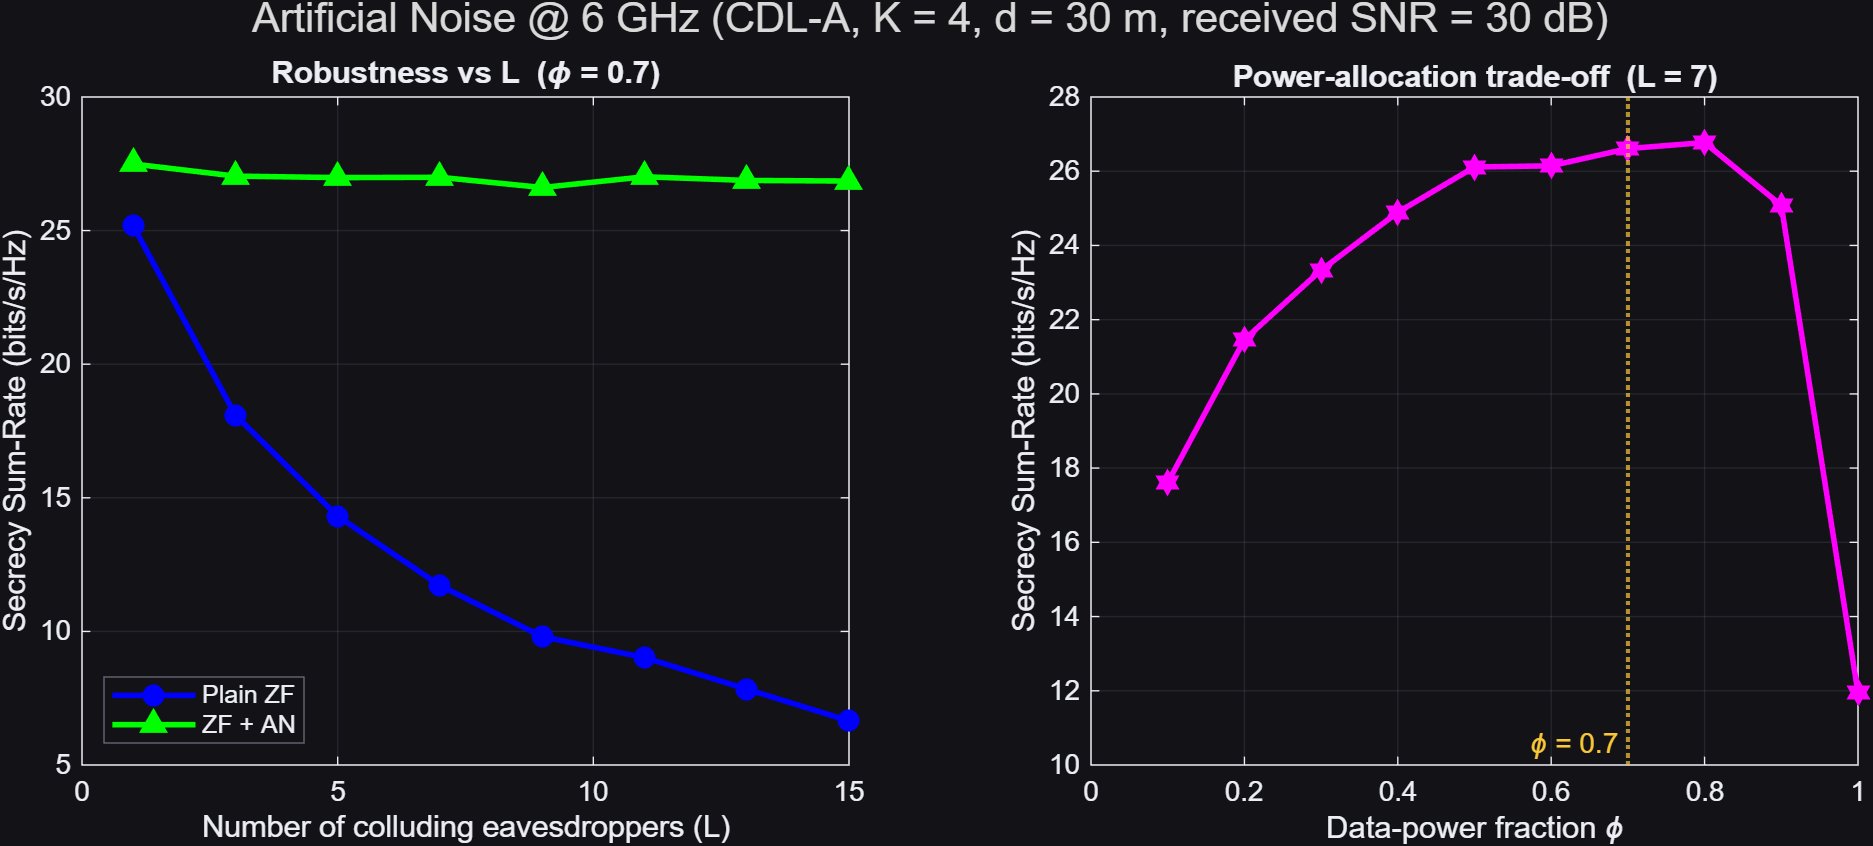
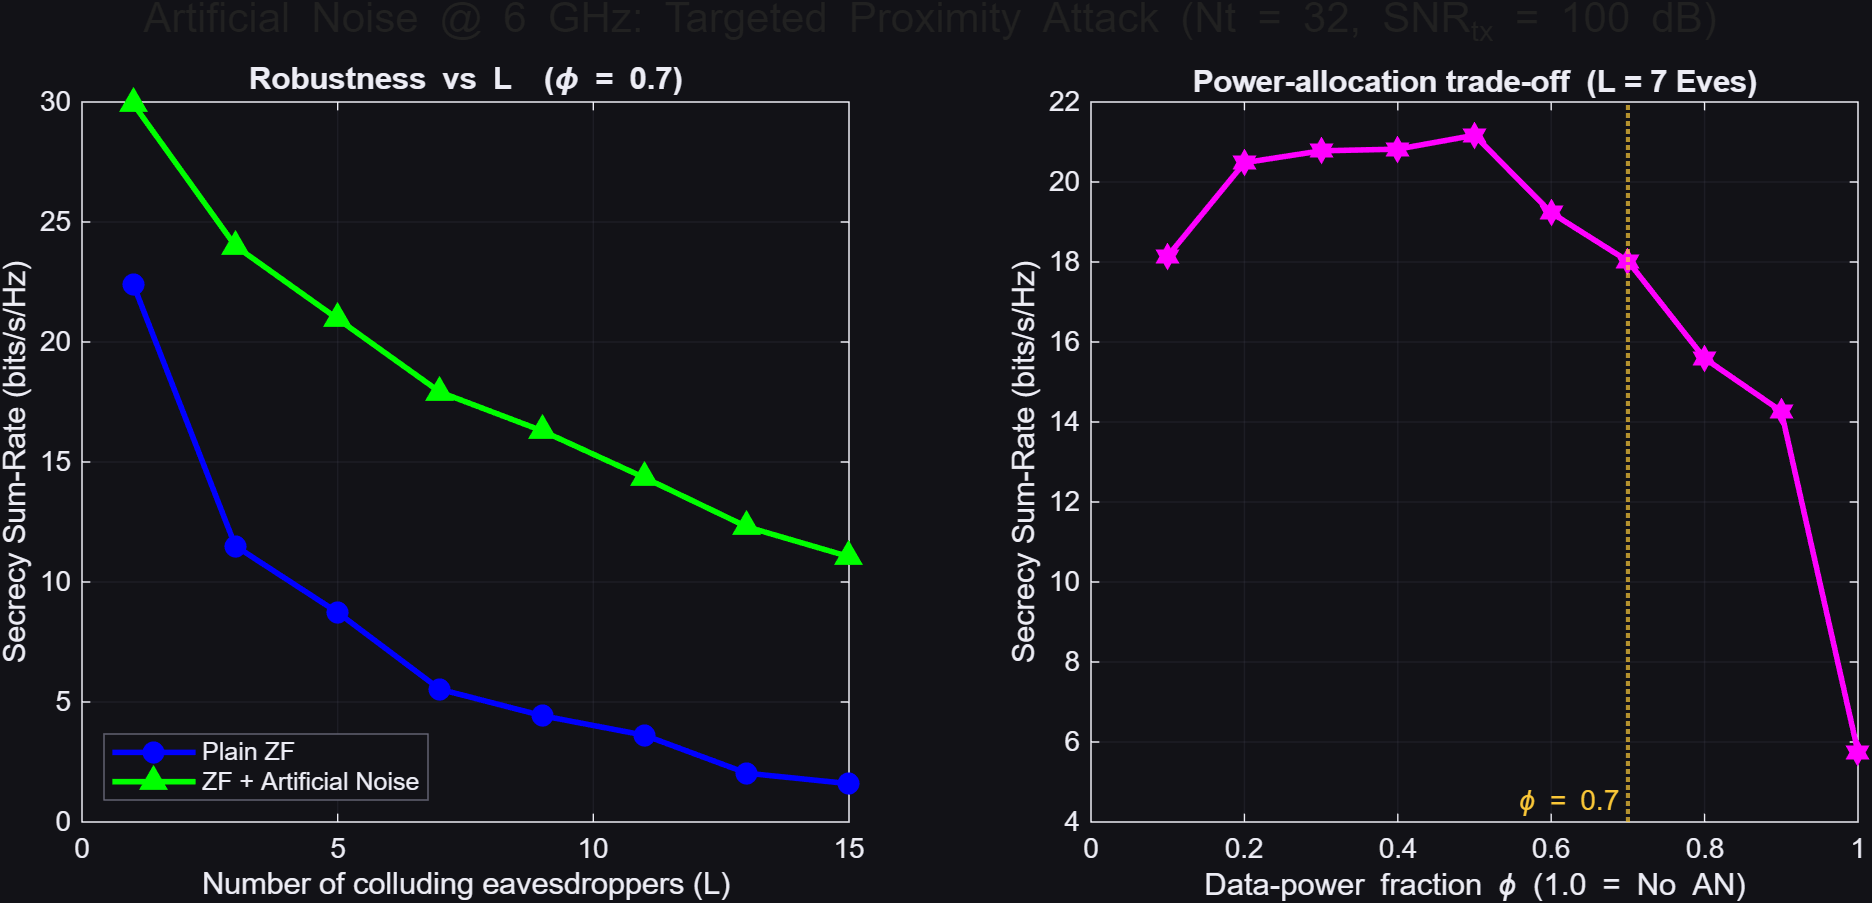
artificial noise: topology, code, and results update

diff --git a/simulations/sim_artificial_noise.m b/simulations/sim_artificial_noise.m
@@ -97,7 +97,8 @@ title(sprintf('Power-allocation trade-off  (L = %d Eves)', L_fixed));
 xline(phi_fixed, 'k:', sprintf('\\phi = %.1f', phi_fixed), 'LineWidth', 1.5, 'LabelVerticalAlignment', 'bottom');
 
 sgtitle(sprintf('Artificial Noise @ 6 GHz: Targeted Proximity Attack (Nt = %d, SNR_{tx} = %d dB)', Nt, SNR_tx_dB));
-save_figure(fig, 'fig_artificial_noise_tradeoffs');
+save_figure(fig, 'fig_artificial_noise');
+plot_an_topology(dist, K, 8)
 
 % =========================================================================
 % FUNKCJA WYKONAWCZA: Generuje kanały i wylicza pojemność dla jednej iteracji
@@ -199,4 +200,69 @@ function cdl = setup_matlab_cdl(cdl, Nt, fc, theta)
     cdl.ReceiveAntennaArray.Size = [1 1 1 1 1];
     cdl.NumTimeSamples = 1;
     cdl.ChannelFiltering = false; 
+end
+
+% =========================================================================
+% FUNKCJA POMOCNICZA: Generowanie topologii scenariusza (Targeted Proximity)
+% =========================================================================
+function plot_an_topology(dist, K, num_eve)
+    fig_top = figure('Color', 'w', 'Position', [150 150 700 700]);
+    hold on; grid on; box on;
+    
+    % --- Odtworzenie logiki rozmieszczenia ze skryptu ---
+    % Bobs są rozrzuceni w sektorze [-60, 60]
+    theta_bobs = -60 + 120 * rand(1, K);
+    
+    % Ewy celują w losowych Bobów i stoją bardzo blisko nich (+/- 6 stopni)
+    target_bob_idx = randi(K, 1, num_eve);
+    angular_error  = -6 + 12 * rand(1, num_eve);
+    theta_eves     = theta_bobs(target_bob_idx) + angular_error;
+    
+    % Konwersja na kartezjańskie (BS w 0,0)
+    x_bs = 0; y_bs = 0;
+    max_d = dist + 15;
+    
+    % Rysowanie BS
+    p_bs = plot(x_bs, y_bs, 'k^', 'MarkerSize', 12, 'MarkerFaceColor', 'k', 'DisplayName', 'Base Station (BS)');
+    text(x_bs, y_bs - 3, 'BS (0,0)', 'HorizontalAlignment', 'center', 'Color', 'k');
+    
+    % Rysowanie Ew (Targeted Proximity)
+    x_eves = dist * sind(theta_eves);
+    y_eves = dist * cosd(theta_eves);
+    
+    p_e = [];
+    for e = 1:num_eve
+        p_e = plot(x_eves(e), y_eves(e), 'rs', 'MarkerSize', 8, 'MarkerFaceColor', 'r');
+        text(x_eves(e) + 1.5, y_eves(e) + 1.5, sprintf('E_{%d}', e), 'Color', 'r', 'FontSize', 9);
+    end
+    if ~isempty(p_e)
+        set(p_e, 'DisplayName', sprintf('Eves (L=%d)', num_eve));
+    end
+    
+    % Rysowanie Bobów
+    p_b = [];
+    for k = 1:K
+        x_b = dist * sind(theta_bobs(k));
+        y_b = dist * cosd(theta_bobs(k));
+        p_b = plot(x_b, y_b, 'bo', 'MarkerSize', 8, 'MarkerFaceColor', 'b');
+        text(x_b - 1.5, y_b - 1.5, sprintf('B_{%d}', k), 'Color', 'b', 'FontSize', 9, 'HorizontalAlignment', 'right');
+    end
+    if ~isempty(p_b)
+        set(p_b, 'DisplayName', sprintf('Bobs (K=%d)', K));
+    end
+    
+    % Ustawienia osi
+    axis equal;
+    xlim([-max_d, max_d]);
+    ylim([-10, max_d]);
+    xlabel('X [m]'); ylabel('Y [m]');
+    title(sprintf('Scenario 4: Artificial Noise (K=%d, L=%d, d=%gm)', K, num_eve, dist));
+    legend([p_bs, p_b, p_e], 'Location', 'NorthWest');
+    
+    % Zapis do pliku
+    try
+        save_figure(fig_top, '../topology/topology_artificial_noise');
+    catch
+        warning('Funkcja save_figure nie jest dostępna.');
+    end
 end
